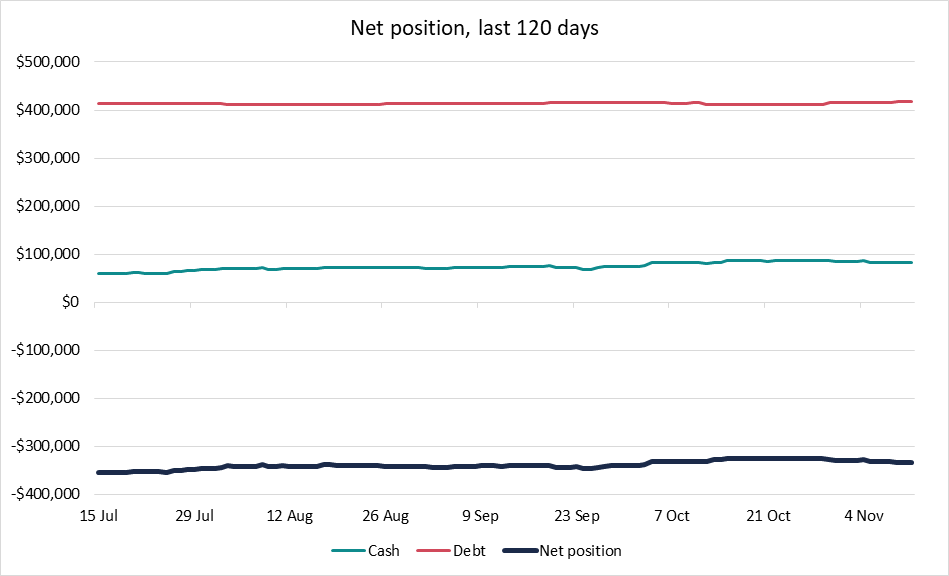
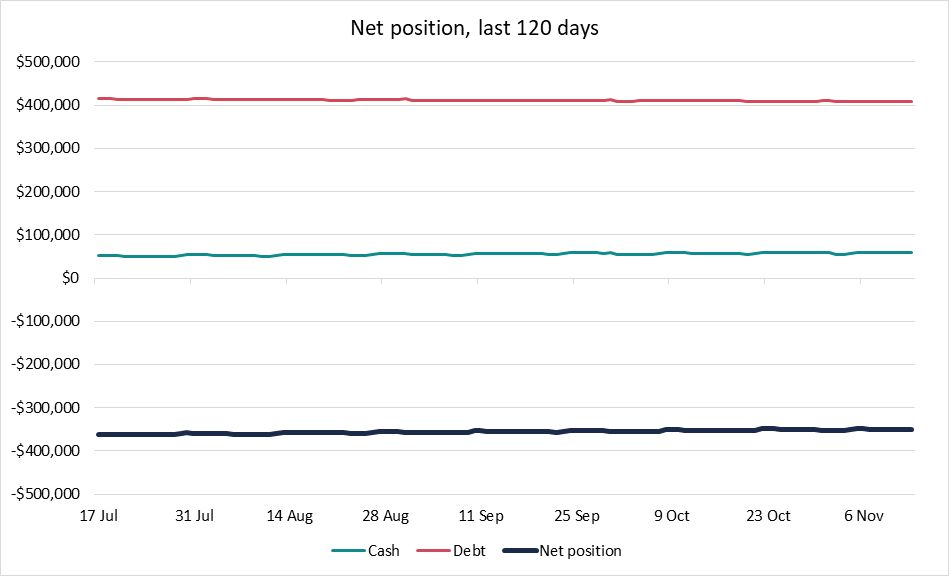
docs(showcase): household finances on 0.95.0, pay and bills on their real days
The Data Generator's scheduled rows now put the salaries, repayments, bills and interest on
their calendar days, with both legs of each transfer on one day. A new Excel picture shows the
everyday account's fortnightly sawtooth, and the Excel and web pictures are the Demo server's
run of 13 November 2026 from the 0.95.0 chart writer.

diff --git a/showcase/entries/004-datacrafter-household-finances/entry.md b/showcase/entries/004-datacrafter-household-finances/entry.md
@@ -1,16 +1,18 @@
 ---
 title: A household's finances, kept as history
-summary: A fictional household's bank data in the Consumer Data Right shape, generated day by day, categorised, and reported with Excel charts.
+summary: A fictional household's bank data in the Consumer Data Right shape, generated day by day with pay and bills on their real days, categorised, and reported with Excel charts.
 author: DataCrafter
-version: 0.94.2
-date: 2026-11-11
+version: 0.95.0
+date: 2026-11-13
 media:
+  - file: 05-everyday-account-in-excel.png
+    alt: "The report's Everyday account chart, opened in Microsoft Excel: the Harper household's everyday account balance each day from 17 July to 13 November 2026. The line is a fortnightly sawtooth: it rises by about 4,850 dollars over each fortnight's two paydays, then steps down as the home loan repayment, the savings transfer, the card repayment and the bills go out on their days, between about 2,700 and 9,900 dollars. Dates are labelled a fortnight apart."
   - file: 01-net-position-in-excel.png
-    alt: "The report's trend chart, opened in Microsoft Excel: the Harper household's cash, debt and net position each day from 15 July to 11 November 2026. Cash is a teal line rising from about 60,000 to 82,000 dollars, debt a red line near 415,000, and net position the thickest dark line, rising from about minus 355,000 to minus 335,000. Dates are labelled a fortnight apart."
+    alt: "The report's trend chart, opened in Microsoft Excel: the Harper household's cash, debt and net position each day from 17 July to 13 November 2026. Cash is a teal line near 50,000 to 58,000 dollars, debt a red line easing from about 414,000 to 409,000 dollars, and net position the thickest dark line, rising from about minus 362,000 to minus 350,000 dollars. Dates are labelled a fortnight apart."
   - file: 02-spending-in-excel.png
-    alt: "The report's spending chart, opened in Microsoft Excel: for Essentials, Lifestyle and Fees, this month's spending so far as a dark column beside the average of the three months before as a grey one. Essentials is about 4,000 dollars against an average of about 6,000."
+    alt: "The report's spending chart, opened in Microsoft Excel: for Essentials, Lifestyle and Fees, this month's spending so far as a dark column beside the average of the three months before as a grey one. Essentials is about 5,600 dollars against an average of about 7,300."
   - file: 03-report-in-the-web-client.png
-    alt: "The report open in DataCrafter's web client on the Demo server, run of 12 November 2026. On the left, this month's spending by category against the three-month average: 6,474 dollars so far against 9,252. On the right, the net position: cash 82,391 dollars, debt 417,098 dollars, net position minus 334,707 dollars, and each account's balance at Coral Bank and Southern Mutual."
+    alt: "The report open in DataCrafter's web client on the Demo server, run of 13 November 2026. On the left, this month's spending by category against the three-month average: 6,063 dollars so far against 10,737. On the right, the net position: cash 58,328 dollars, debt 408,646 dollars, net position minus 350,318 dollars, and each account's balance at Coral Bank and Southern Mutual."
   - file: 04-trend-in-the-web-client.png
     alt: "The same report in the web client, scrolled to the trend: one row a day of cash, debt and net position beside the chart 'Net position, last 120 days', with cash in teal, debt in red and net position as the thickest dark line."
 ---
@@ -23,20 +25,28 @@ The household, the Harpers, and their banks, Coral Bank and Southern Mutual, are
 Every transaction is generated by DataCrafter in the Consumer Data Standards banking shape:
 accounts, balances and transactions with the standard's own field names and codes.
 
-The data comes from a Data Generator, and its rules do the work. One combination rule draws a
-whole transaction pattern per row, weighted by how often the household does it: a grocery shop
-always comes from the everyday account with the supermarket's merchant category code, a coffee
-always from the card. A Normal range varies each amount around its pattern's typical value, a
-formula turns the two into the amount, a sequence numbers the day's transactions, and the row
-count varies so some days are busy and some are quiet. The seed is fixed per day, so running a
-day again gives exactly the same rows.
+The data comes from a Data Generator, and its rules do the work. Scheduled rows put the
+calendar in place: the two salaries land every second Wednesday and Thursday, the home loan
+repayment on the 1st, the savings transfer on the 15th and the card repayment on the 20th, the
+bills on their days, and fees and interest on the last day of the month. A direct debit due on
+a weekend moves to the Monday. Each transfer has both legs on the same day, money out of the
+everyday account and into the other one. The first picture shows the result: the everyday
+account fills on each payday and empties as the bills go out.
+
+Everything else is drawn. One combination rule draws a whole spending pattern per row,
+weighted by how often the household does it: a grocery shop always comes from the everyday
+account with the supermarket's merchant category code, a coffee always from the card. A Normal
+range varies each amount around its pattern's typical value, a formula turns the two into the
+amount, a sequence numbers the day's transactions, and the row count varies so some days are
+busy and some are quiet. The seed is fixed per date, so running a day again gives exactly the
+same rows, on any server.
 
 A Classifier sorts every transaction into a category group and a category, merchant category
 code first, the way a budgeting app's rules do, but as a model the rest of the solution reads.
 Balances are never generated: each one is the opening balance plus every transaction up to that
 day, and figures computed outside DataCrafter match every number in the report.
 
-The charts are real Excel charts inside the report's workbook. These two pictures are the run of
-11 November, downloaded and opened in Microsoft Excel. The last two show the run of 12 November in DataCrafter's
-web client, on the Demo server. Each morning at 7 the Scheduler generates
-the new day and stores the day's report.
+The charts are real Excel charts inside the report's workbook. The first three pictures are the
+run of 13 November, downloaded from the Demo server and opened in Microsoft Excel. The last two
+show the same run in DataCrafter's web client. Each morning at 7 the Scheduler generates the new
+day and stores the day's report.
